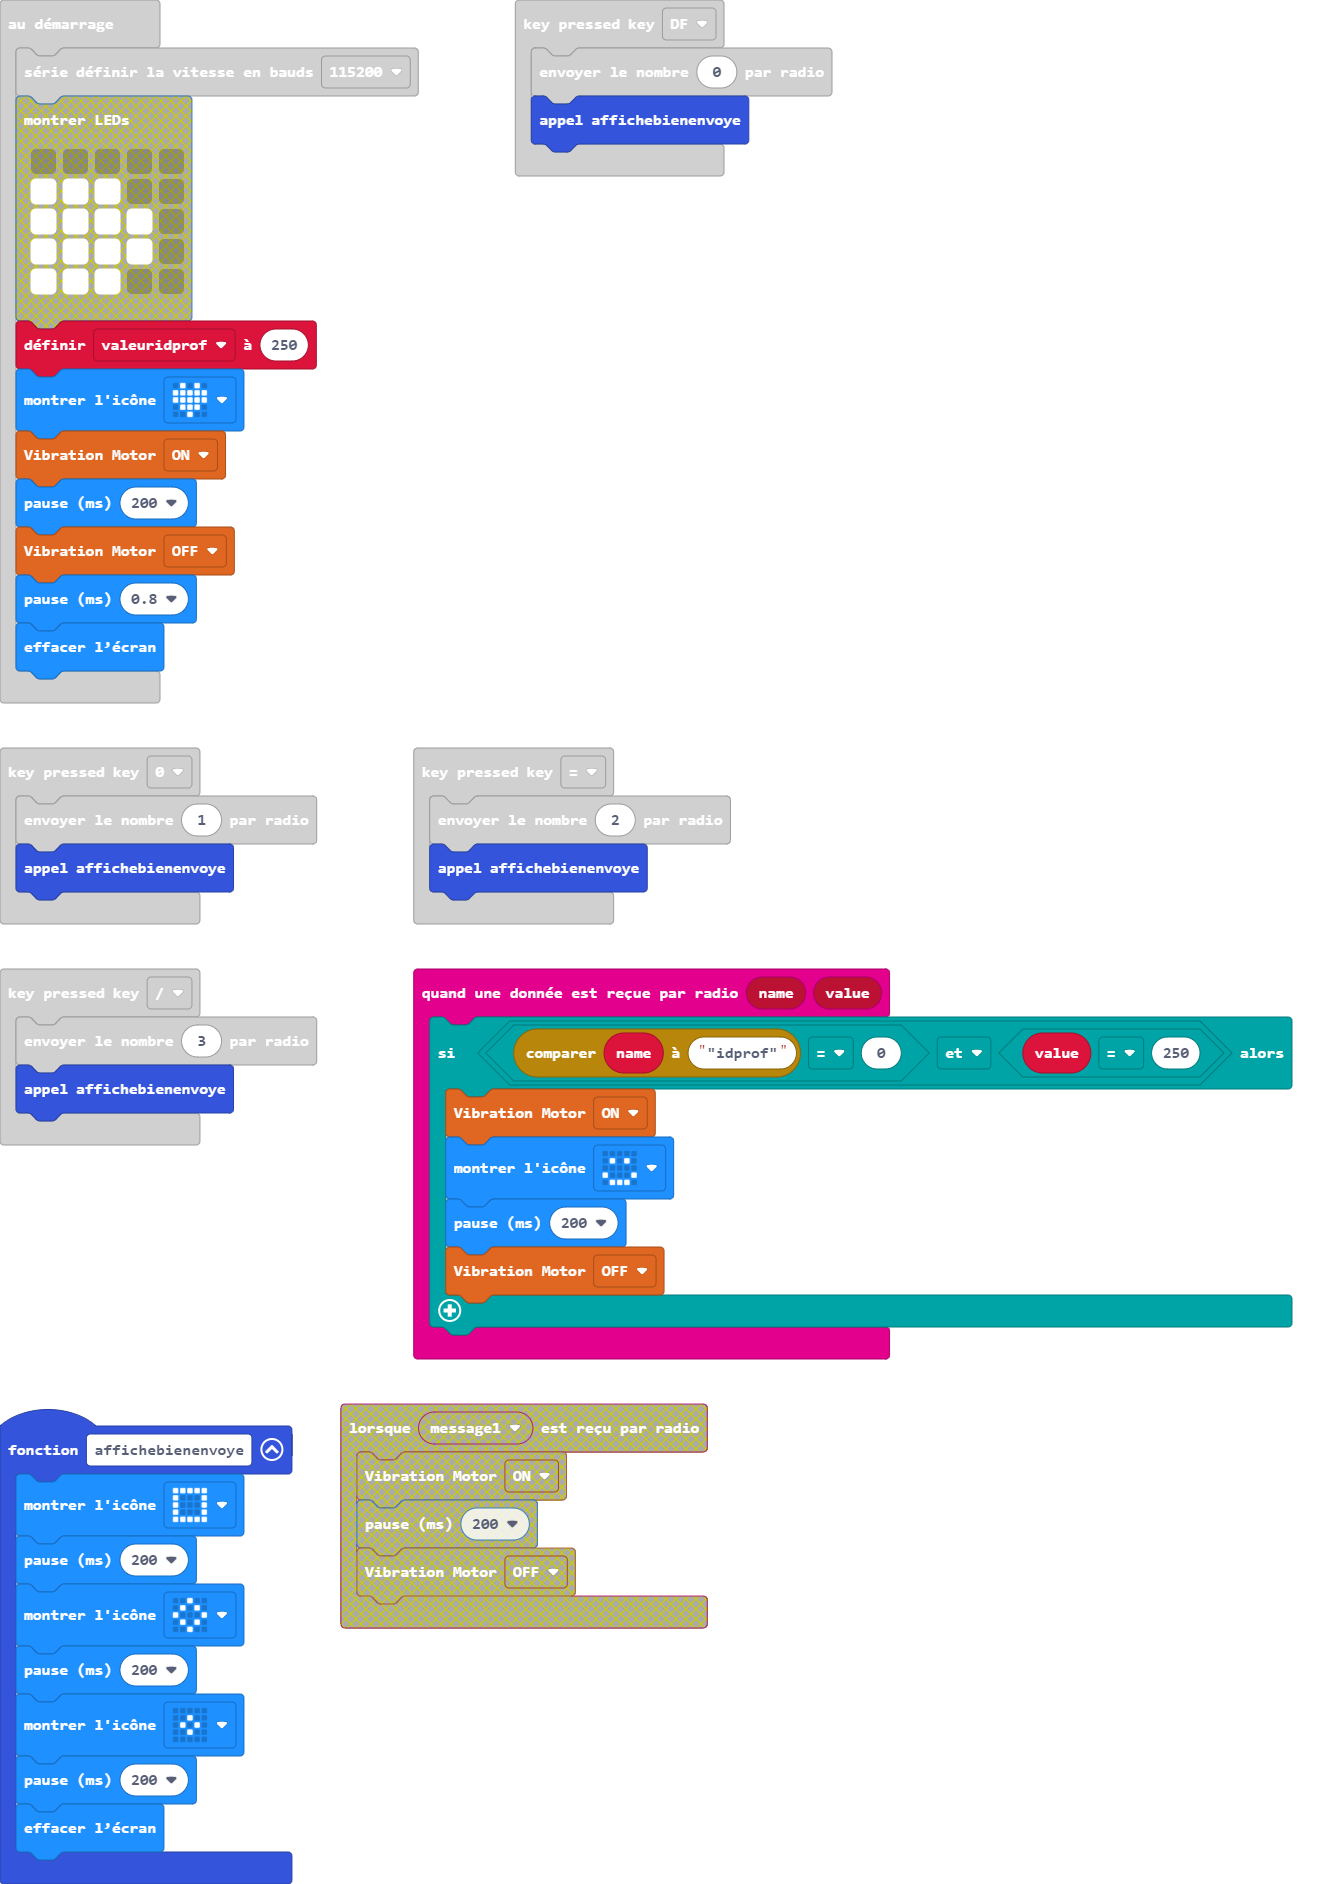
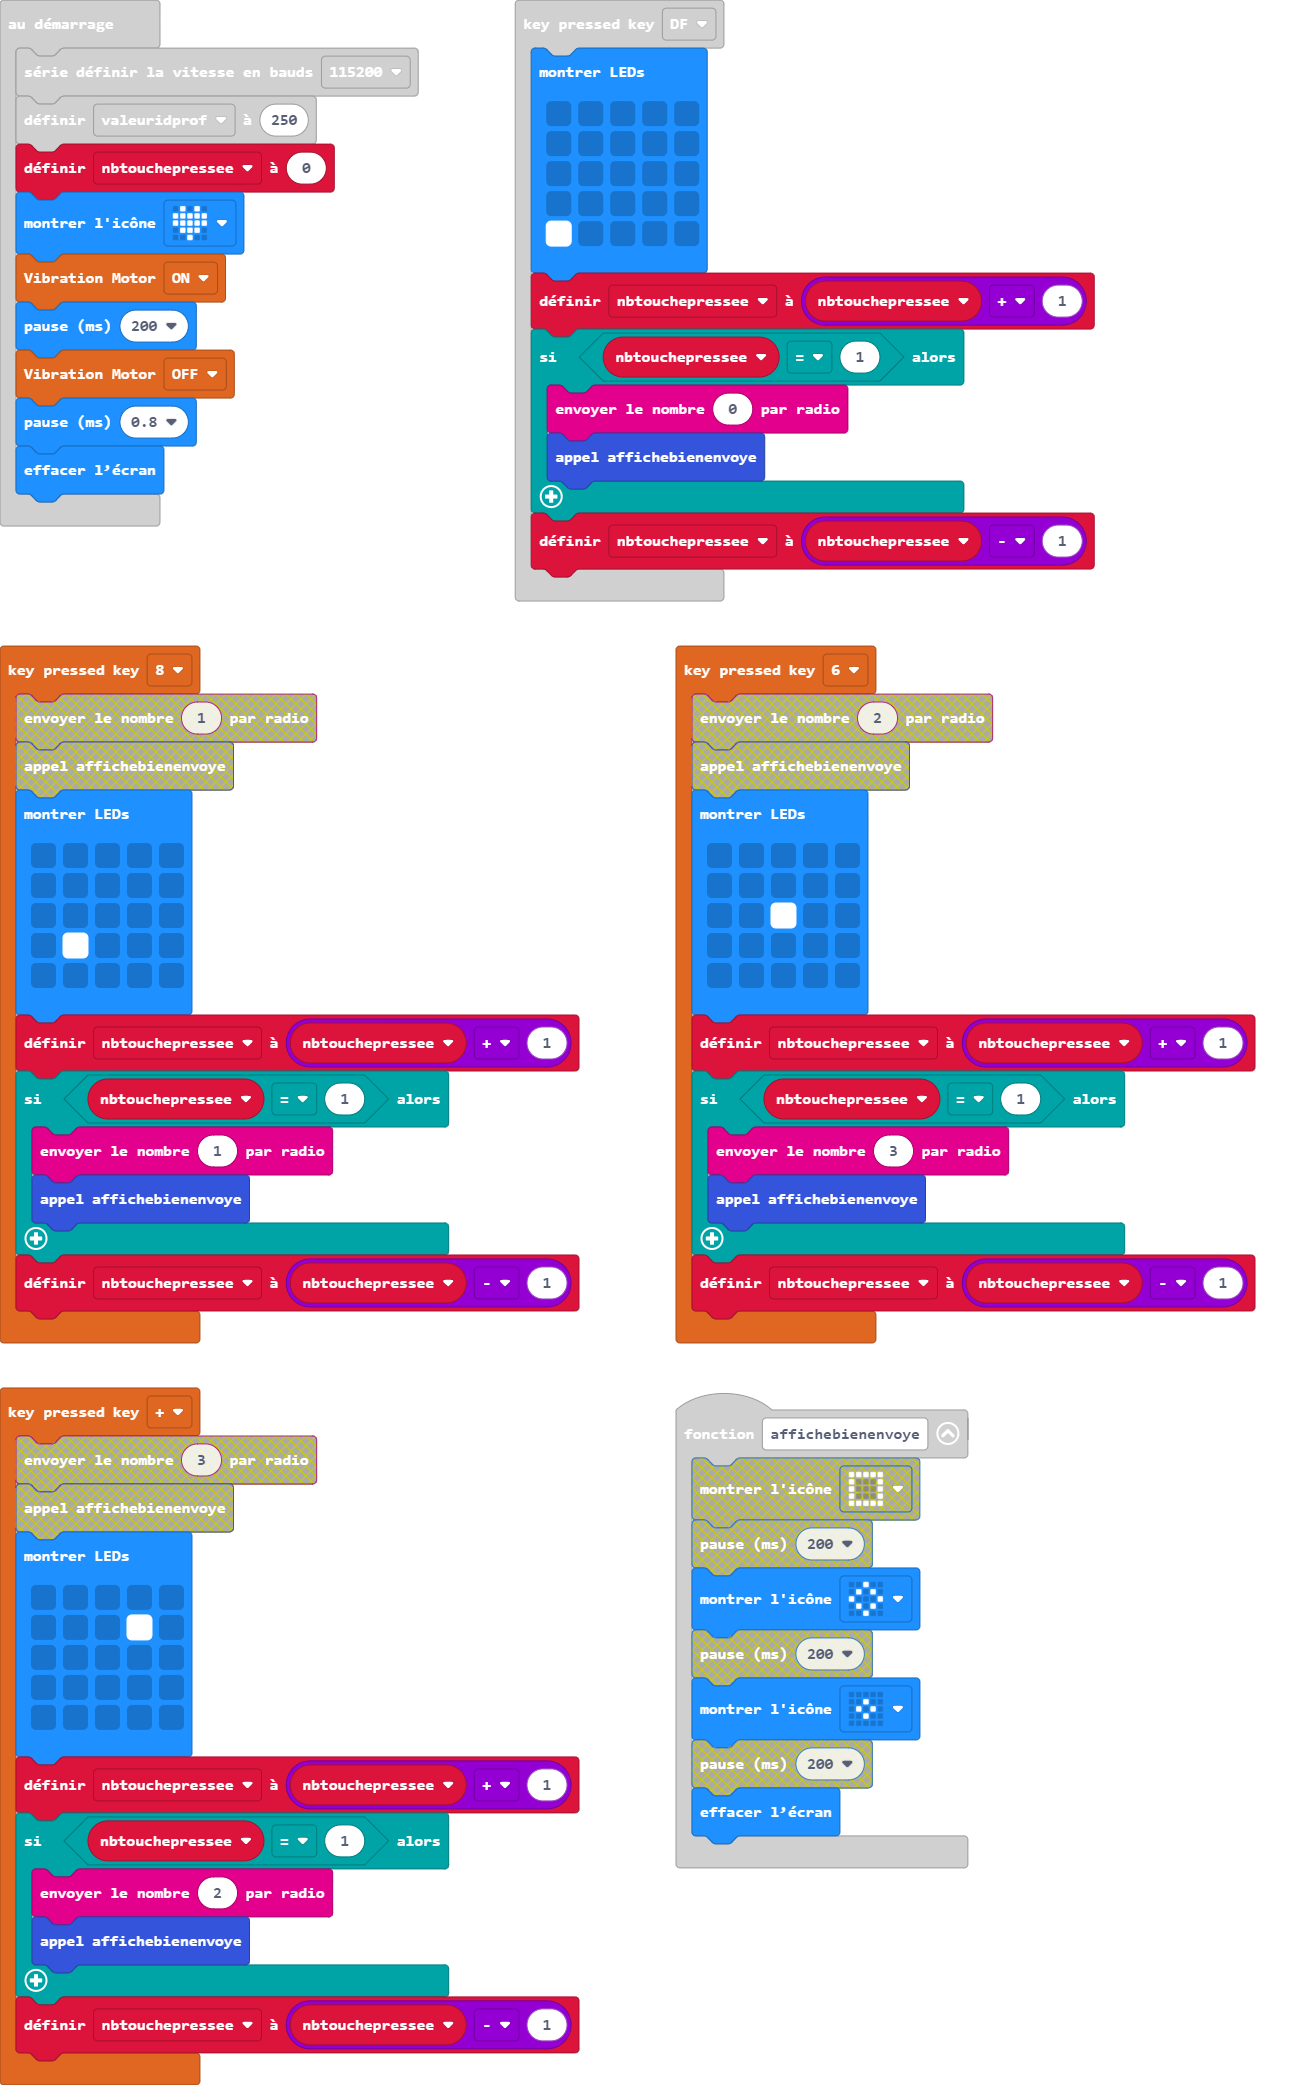
Prototype n°1

diff --git a/main.ts b/main.ts
@@ -2,26 +2,40 @@ enum RadioMessage {
     message1 = 49434,
     test = 2239
 }
-keyboard.kbEvent(KeyValue.keydiv, function () {
-    radio.sendNumber(3)
-    affichebienenvoye()
-})
-keyboard.kbEvent(KeyValue.keyequal, function () {
-    radio.sendNumber(2)
-    affichebienenvoye()
-})
 function affichebienenvoye () {
-    basic.showIcon(IconNames.Square)
-    basic.pause(200)
     basic.showIcon(IconNames.Diamond)
-    basic.pause(200)
     basic.showIcon(IconNames.SmallDiamond)
-    basic.pause(200)
     basic.clearScreen()
 }
-keyboard.kbEvent(KeyValue.key0, function () {
-    radio.sendNumber(1)
-    affichebienenvoye()
+keyboard.kbEvent(KeyValue.key8, function () {
+    basic.showLeds(`
+        . . . . .
+        . . . . .
+        . . . . .
+        . # . . .
+        . . . . .
+        `)
+    nbtouchepressee = nbtouchepressee + 1
+    if (nbtouchepressee == 1) {
+        radio.sendNumber(1)
+        affichebienenvoye()
+    }
+    nbtouchepressee = nbtouchepressee - 1
+})
+keyboard.kbEvent(KeyValue.key6, function () {
+    basic.showLeds(`
+        . . . . .
+        . . . . .
+        . . # . .
+        . . . . .
+        . . . . .
+        `)
+    nbtouchepressee = nbtouchepressee + 1
+    if (nbtouchepressee == 1) {
+        radio.sendNumber(3)
+        affichebienenvoye()
+    }
+    nbtouchepressee = nbtouchepressee - 1
 })
 radio.onReceivedValue(function (name, value) {
     if (name.compare("\"idprof\"") == 0 && value == 250) {
@@ -32,11 +46,39 @@ radio.onReceivedValue(function (name, value) {
     }
 })
 keyboard.kbEvent(KeyValue.keydf, function () {
-    radio.sendNumber(0)
-    affichebienenvoye()
+    basic.showLeds(`
+        . . . . .
+        . . . . .
+        . . . . .
+        . . . . .
+        # . . . .
+        `)
+    nbtouchepressee = nbtouchepressee + 1
+    if (nbtouchepressee == 1) {
+        radio.sendNumber(0)
+        affichebienenvoye()
+    }
+    nbtouchepressee = nbtouchepressee - 1
 })
+keyboard.kbEvent(KeyValue.keyplus, function () {
+    basic.showLeds(`
+        . . . . .
+        . . . # .
+        . . . . .
+        . . . . .
+        . . . . .
+        `)
+    nbtouchepressee = nbtouchepressee + 1
+    if (nbtouchepressee == 1) {
+        radio.sendNumber(2)
+        affichebienenvoye()
+    }
+    nbtouchepressee = nbtouchepressee - 1
+})
+let nbtouchepressee = 0
 serial.setBaudRate(BaudRate.BaudRate115200)
 let valeuridprof = 250
+nbtouchepressee = 0
 basic.showIcon(IconNames.Heart)
 keyboard.vibrationMotor(OnOff.ON)
 basic.pause(200)
